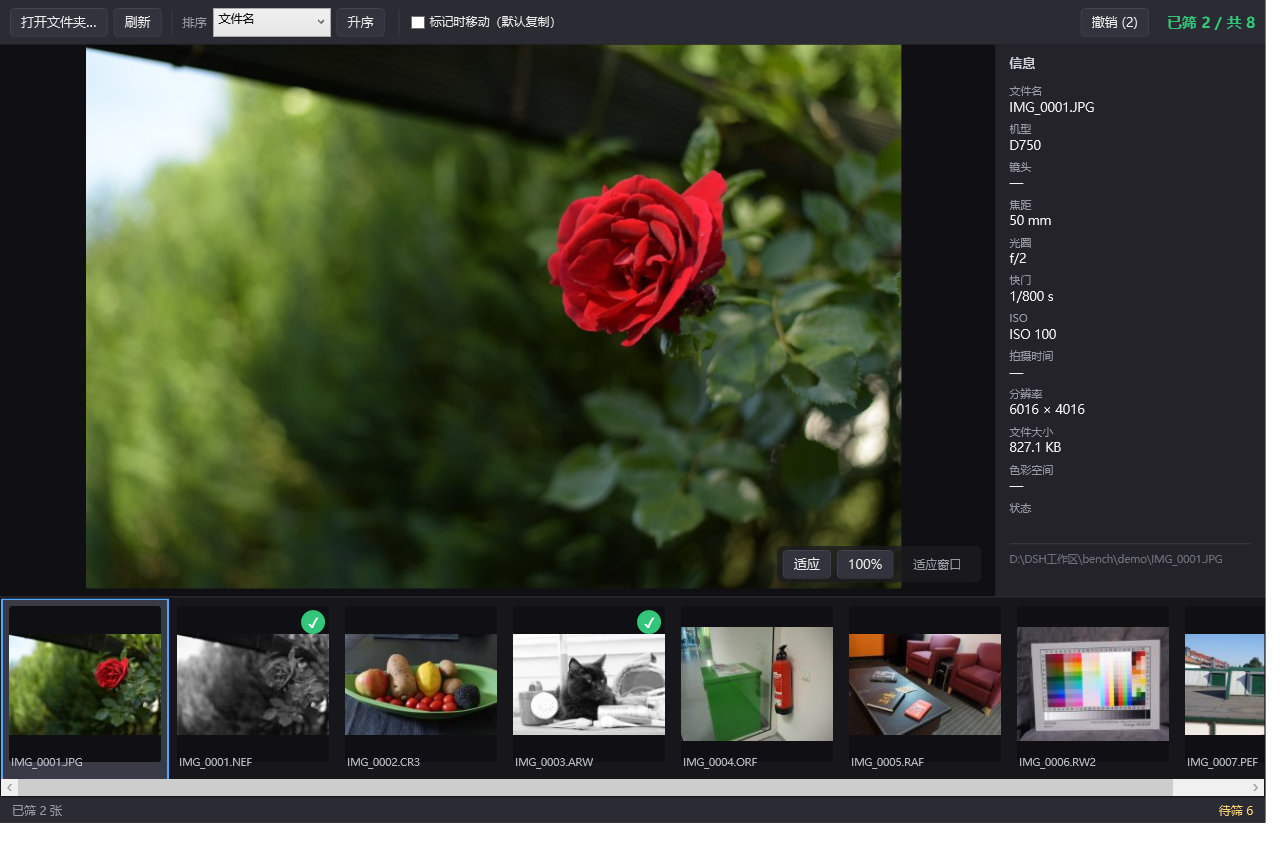
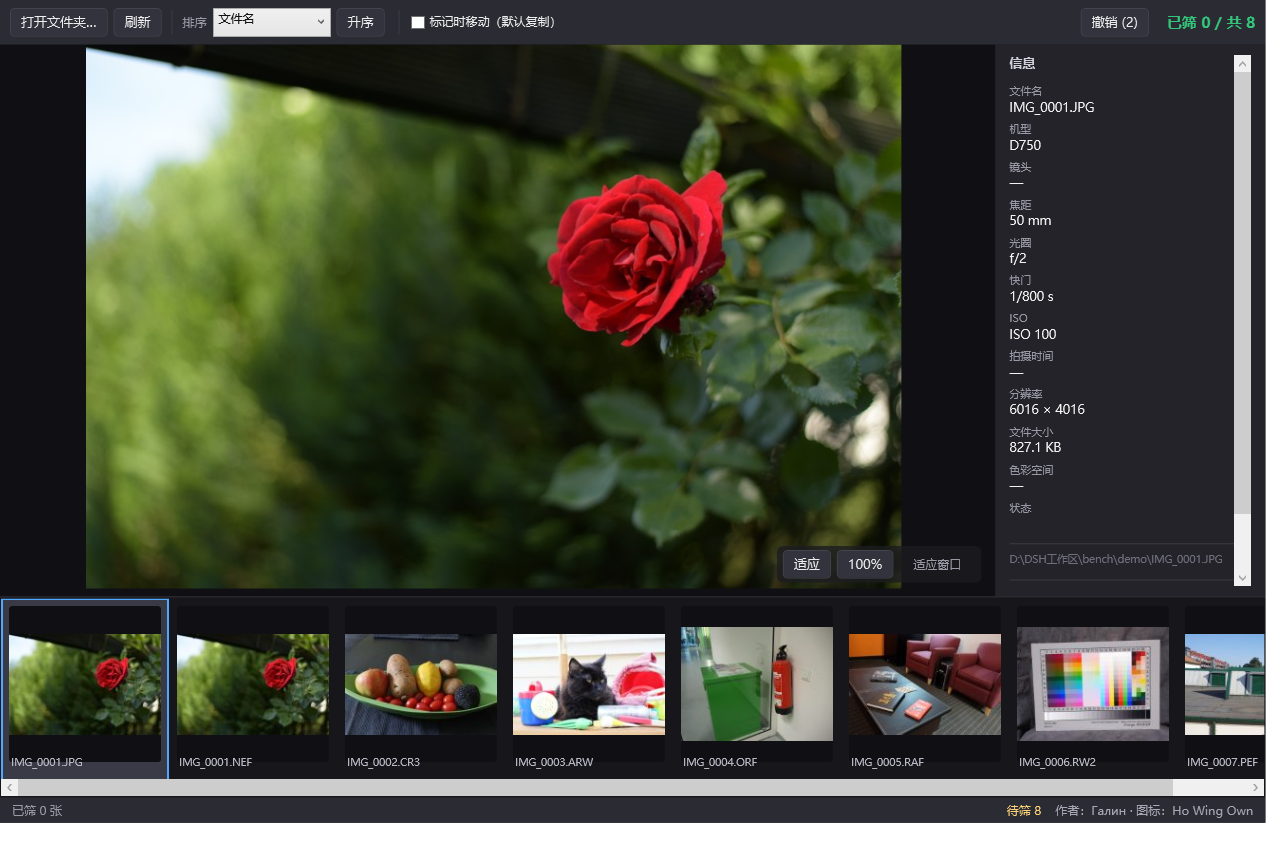
v1.0.3 署名加大并常驻状态栏
- 状态栏右下角常驻：作者 Галин · 图标 Ho Wing Own（12px，永远可见，不用滚动）
- 信息栏底部署名放大到 13.5px（浅灰 #B9B9C6），版本号 11.5px 单独一行
- 1.0.3 最终包：安装验收 21/21，--selftest 64/64，--version 显示 1.0.3

diff --git a/src/YingShai.App/Ui/MainWindow.xaml b/src/YingShai.App/Ui/MainWindow.xaml
@@ -216,12 +216,16 @@
                     <Border Height="1" Background="#3A3A44" Margin="0,12,0,8"/>
                     <TextBlock Text="{Binding FilePathText}" Foreground="#6F6F7C" FontSize="10.5" TextWrapping="Wrap"/>
 
-                    <!-- 应用信息：作者与图标署名（低调放信息栏最下方） -->
-                    <TextBlock x:Name="CreditText" Margin="0,14,0,2" FontSize="9.5" Foreground="#4E4E5A"
-                               TextWrapping="Wrap"
-                               Text="作者：Галин · 图标：Ho Wing Own"
+                    <!-- 应用信息：作者与图标署名（信息栏最下方） -->
+                    <Border Height="1" Background="#3A3A44" Margin="0,14,0,10"/>
+                    <TextBlock x:Name="CreditText" FontSize="13.5" Foreground="#B9B9C6" TextWrapping="Wrap"
+                               LineHeight="20"
+                               Text="作者：Галин"/>
+                    <TextBlock FontSize="13.5" Foreground="#B9B9C6" TextWrapping="Wrap" LineHeight="20"
+                               Text="软件图标：Ho Wing Own"/>
+                    <TextBlock FontSize="11.5" Foreground="#8A8A98" Margin="0,6,0,2" TextWrapping="Wrap"
+                               Text="{Binding AppVersionText}"
                                ToolTip="影·筛 · 作者 Галин · 软件图标 Ho Wing Own · MIT License"/>
-                    <TextBlock FontSize="9" Foreground="#43434E" Text="{Binding AppVersionText}" TextWrapping="Wrap"/>
                 </StackPanel>
             </ScrollViewer>
         </Border>
@@ -295,6 +299,10 @@
         <!-- ============ 状态栏 ============ -->
         <Border Grid.Row="3" Grid.ColumnSpan="2" Background="{StaticResource BarBrush}" Padding="12,5">
             <DockPanel LastChildFill="True">
+                <!-- 署名常驻右下角，永远可见 -->
+                <TextBlock DockPanel.Dock="Right" Text="作者：Галин · 图标：Ho Wing Own" Foreground="#A8A8B6"
+                           FontSize="12" VerticalAlignment="Center" Margin="14,0,0,0"
+                           ToolTip="影·筛 · 作者 Галин · 软件图标 Ho Wing Own · MIT License"/>
                 <TextBlock DockPanel.Dock="Right" Text="{Binding RemainingText}" Foreground="#FFD479" Margin="12,0,0,0"/>
                 <TextBlock DockPanel.Dock="Right" Text="{Binding ProgressText}" Foreground="#9CC7FF" Margin="12,0,0,0"/>
                 <TextBlock Text="{Binding StatusText}" Foreground="{StaticResource DimBrush}" TextTrimming="CharacterEllipsis"/>

diff --git a/src/YingShai.App/Ui/MainViewModel.cs b/src/YingShai.App/Ui/MainViewModel.cs
@@ -87,9 +87,8 @@ public sealed class MainViewModel : INotifyPropertyChanged
     public string RemainingText => $"待筛 {Session.RemainingCount}";
     public string FilePathText => Current?.FullPath ?? "";
 
-    /// <summary>信息栏最下方那行小字（版本 + 作者/图标署名，低调）。</summary>
-    public string AppVersionText =>
-        $"影·筛 {(typeof(MainViewModel).Assembly.GetName().Version is { } v ? v.ToString(3) : "")} · 作者：Галин · 图标：Ho Wing Own";
+    /// <summary>信息栏最下方的版本号行（作者/图标署名在上一行）。</summary>
+    public string AppVersionText => $"影·筛 v{typeof(MainViewModel).Assembly.GetName().Version?.ToString(3)}";
 
     public string SizeText => Current == null ? "—" : FormatSize(Current.Size);
 
